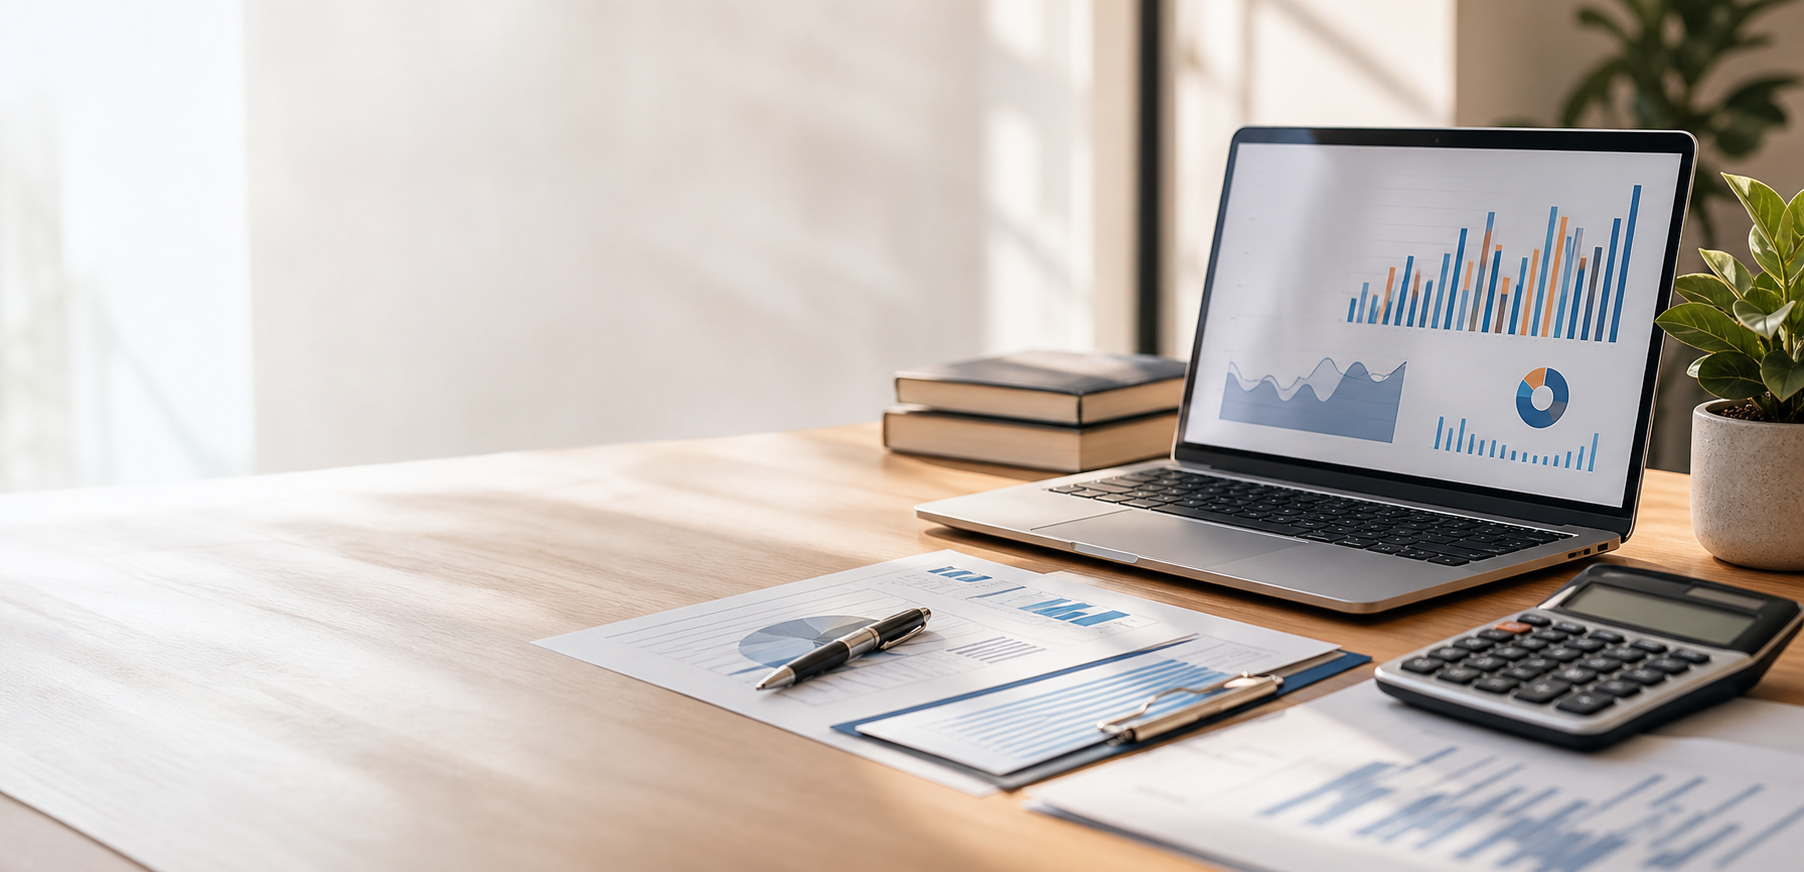
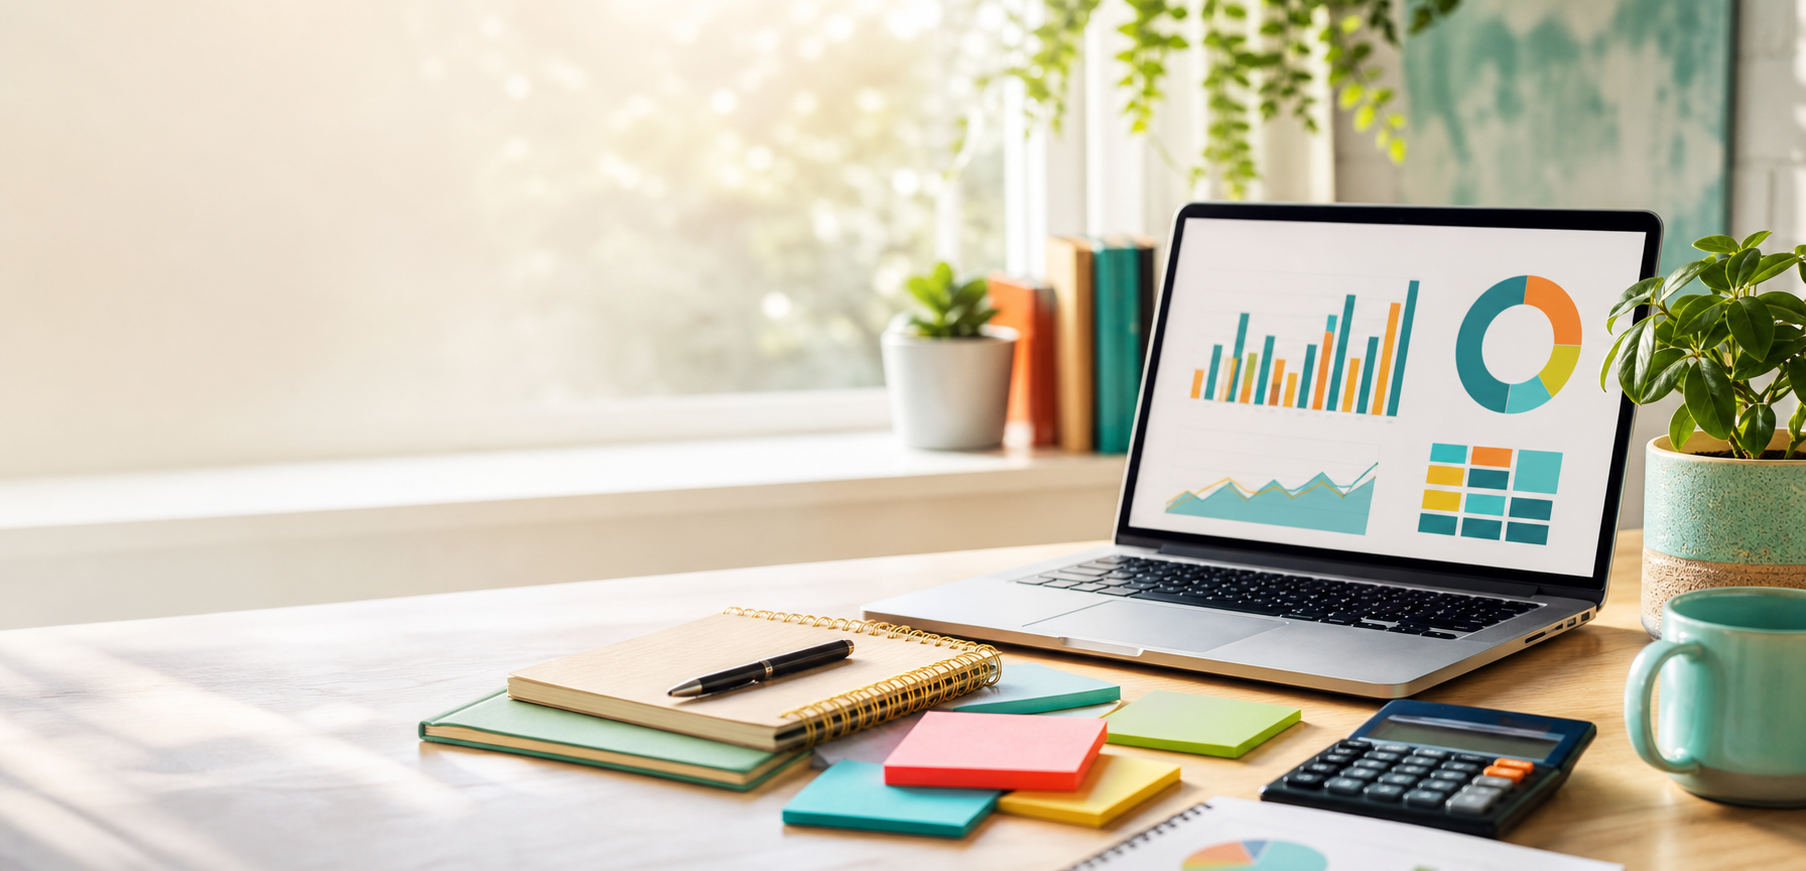
Refresh visual design and hero image

diff --git a/styles.css b/styles.css
@@ -1,13 +1,16 @@
 :root {
-  --ink: #17212b;
-  --muted: #5f6b76;
-  --line: #d8e0e6;
-  --paper: #f6f3ee;
+  --ink: #15202b;
+  --muted: #5e6975;
+  --line: #d9e5e4;
+  --paper: #fff8ee;
+  --mint: #e8f6ef;
+  --sky: #e9f6f8;
   --white: #ffffff;
-  --teal: #1d6f73;
-  --teal-dark: #124d50;
-  --gold: #b4843f;
-  --rose: #8b4f58;
+  --teal: #12807f;
+  --teal-dark: #0d5b5d;
+  --gold: #d7962d;
+  --coral: #e76652;
+  --rose: #a14661;
   color-scheme: light;
   font-family: Inter, ui-sans-serif, system-ui, -apple-system, BlinkMacSystemFont, "Segoe UI", sans-serif;
 }
@@ -22,7 +25,7 @@ html {
 
 body {
   margin: 0;
-  background: var(--paper);
+  background: linear-gradient(180deg, #fffaf2 0%, #f4fbf8 55%, #fff8ee 100%);
   color: var(--ink);
   line-height: 1.5;
   overflow-x: hidden;
@@ -43,8 +46,9 @@ a {
   justify-content: space-between;
   gap: 24px;
   padding: 18px clamp(20px, 5vw, 64px);
-  background: rgba(255, 255, 255, 0.88);
+  background: rgba(255, 255, 255, 0.9);
   border-bottom: 1px solid rgba(23, 33, 43, 0.08);
+  box-shadow: 0 10px 28px rgba(18, 128, 127, 0.08);
   backdrop-filter: blur(16px);
 }
 
@@ -72,10 +76,11 @@ a {
   height: 42px;
   place-items: center;
   border-radius: 8px;
-  background: var(--teal-dark);
+  background: linear-gradient(135deg, var(--teal-dark), var(--teal));
   color: var(--white);
   font-size: 13px;
   letter-spacing: 0;
+  box-shadow: 0 8px 18px rgba(13, 91, 93, 0.18);
 }
 
 .nav {
@@ -116,8 +121,8 @@ a {
 
 .hero-overlay {
   background:
-    linear-gradient(90deg, rgba(246, 243, 238, 0.98) 0%, rgba(246, 243, 238, 0.82) 38%, rgba(246, 243, 238, 0.1) 72%),
-    linear-gradient(180deg, rgba(246, 243, 238, 0.15), rgba(246, 243, 238, 0.72));
+    linear-gradient(90deg, rgba(255, 248, 238, 0.97) 0%, rgba(255, 248, 238, 0.8) 39%, rgba(255, 248, 238, 0.06) 76%),
+    linear-gradient(180deg, rgba(232, 246, 239, 0.12), rgba(255, 248, 238, 0.72));
 }
 
 .hero-content {
@@ -130,7 +135,7 @@ a {
   color: var(--teal);
   font-size: 13px;
   font-weight: 800;
-  letter-spacing: 0;
+  letter-spacing: 0.08em;
   text-transform: uppercase;
 }
 
@@ -164,7 +169,7 @@ h3 {
 .hero-copy {
   max-width: 540px;
   margin: 24px 0 0;
-  color: #3d4954;
+  color: #354854;
   font-size: clamp(19px, 2vw, 24px);
 }
 
@@ -183,17 +188,23 @@ h3 {
   border-radius: 8px;
   font-weight: 800;
   text-decoration: none;
+  transition: transform 160ms ease, box-shadow 160ms ease, background 160ms ease;
 }
 
 .button.primary {
-  background: var(--teal-dark);
+  background: linear-gradient(135deg, var(--teal-dark), var(--teal));
   color: var(--white);
+  box-shadow: 0 12px 24px rgba(18, 128, 127, 0.18);
 }
 
 .button.secondary {
   background: rgba(255, 255, 255, 0.82);
   border: 1px solid rgba(23, 33, 43, 0.14);
   color: var(--ink);
+}
+
+.button:hover {
+  transform: translateY(-1px);
 }
 
 button.button {
@@ -215,6 +226,10 @@ button.button {
   background: var(--white);
 }
 
+.intro {
+  border-top: 6px solid var(--gold);
+}
+
 .contact {
   align-items: start;
 }
@@ -231,7 +246,8 @@ button.button {
 }
 
 .services {
-  background: #edf4f0;
+  background:
+    linear-gradient(135deg, rgba(232, 246, 239, 0.96), rgba(233, 246, 248, 0.94));
 }
 
 .service-grid {
@@ -243,13 +259,14 @@ button.button {
 .service-card {
   min-height: 260px;
   padding: 28px;
-  border: 1px solid rgba(23, 33, 43, 0.1);
+  border: 1px solid rgba(18, 128, 127, 0.16);
   border-radius: 8px;
-  background: rgba(255, 255, 255, 0.74);
+  background: rgba(255, 255, 255, 0.86);
+  box-shadow: 0 18px 40px rgba(21, 32, 43, 0.06);
 }
 
 .service-number {
-  color: var(--gold);
+  color: var(--coral);
   font-weight: 900;
 }
 
@@ -265,20 +282,25 @@ button.button {
 }
 
 .insights {
-  background: var(--paper);
+  background: linear-gradient(180deg, var(--paper), #ffffff);
 }
 
 .article-list {
   display: grid;
-  border-top: 1px solid var(--line);
+  gap: 12px;
+  border-top: 0;
 }
 
 .article-list article {
   display: grid;
   grid-template-columns: 160px minmax(0, 1fr);
   gap: 24px;
-  padding: 28px 0;
-  border-bottom: 1px solid var(--line);
+  padding: 24px;
+  border: 1px solid var(--line);
+  border-left: 6px solid var(--gold);
+  border-radius: 8px;
+  background: rgba(255, 255, 255, 0.82);
+  box-shadow: 0 14px 30px rgba(21, 32, 43, 0.05);
 }
 
 .article-list h3 a {
@@ -294,7 +316,7 @@ button.button {
 
 .article-date {
   margin: 0;
-  color: var(--rose);
+  color: var(--coral);
   font-size: 14px;
   font-weight: 800;
   text-transform: uppercase;
@@ -302,7 +324,8 @@ button.button {
 
 .contact {
   align-items: center;
-  background: #ffffff;
+  background:
+    linear-gradient(135deg, rgba(255, 255, 255, 0.98), rgba(232, 246, 239, 0.72));
 }
 
 .contact-link {
@@ -318,9 +341,11 @@ button.button {
   max-width: 1120px;
   margin: clamp(48px, 7vw, 84px) auto 0;
   padding: clamp(28px, 5vw, 44px);
-  border: 1px solid var(--line);
+  border: 1px solid rgba(18, 128, 127, 0.18);
   border-radius: 8px;
-  background: var(--paper);
+  background:
+    linear-gradient(135deg, rgba(255, 248, 238, 0.96), rgba(233, 246, 248, 0.88));
+  box-shadow: 0 20px 52px rgba(21, 32, 43, 0.08);
 }
 
 .consultation-section h2 {
@@ -335,9 +360,10 @@ button.button {
   max-width: 820px;
   margin: clamp(44px, 7vw, 72px) auto 0;
   padding: clamp(24px, 4vw, 36px);
-  border: 1px solid var(--line);
+  border: 1px solid rgba(18, 128, 127, 0.18);
+  border-left: 6px solid var(--coral);
   border-radius: 8px;
-  background: var(--paper);
+  background: linear-gradient(135deg, var(--paper), var(--mint));
 }
 
 .contact-cta h2 {
@@ -487,8 +513,8 @@ button.button {
 .article-disclaimer {
   margin: 28px 0;
   padding: 18px;
-  border-left: 4px solid var(--gold);
-  background: var(--paper);
+  border-left: 4px solid var(--coral);
+  background: linear-gradient(135deg, var(--paper), #ffffff);
 }
 
 .article-shell ul {